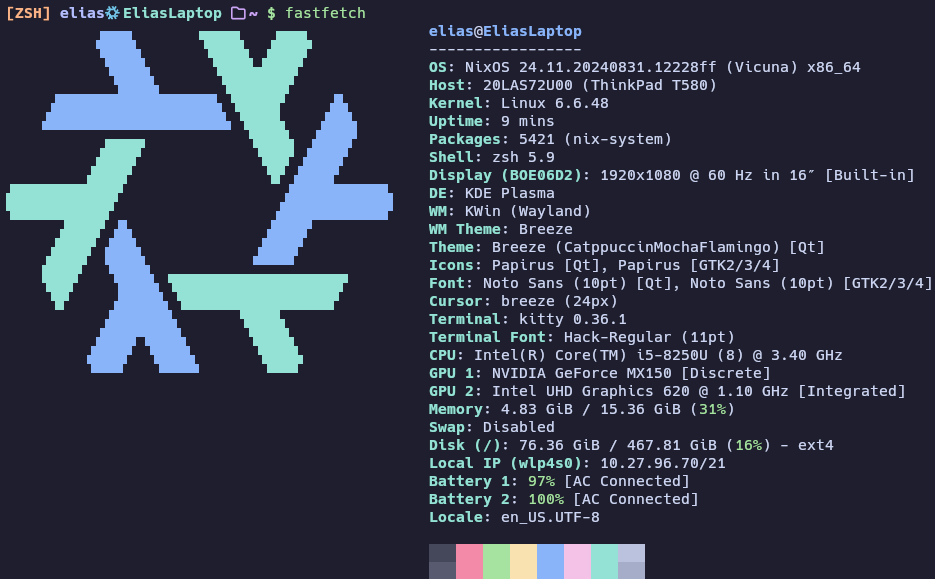
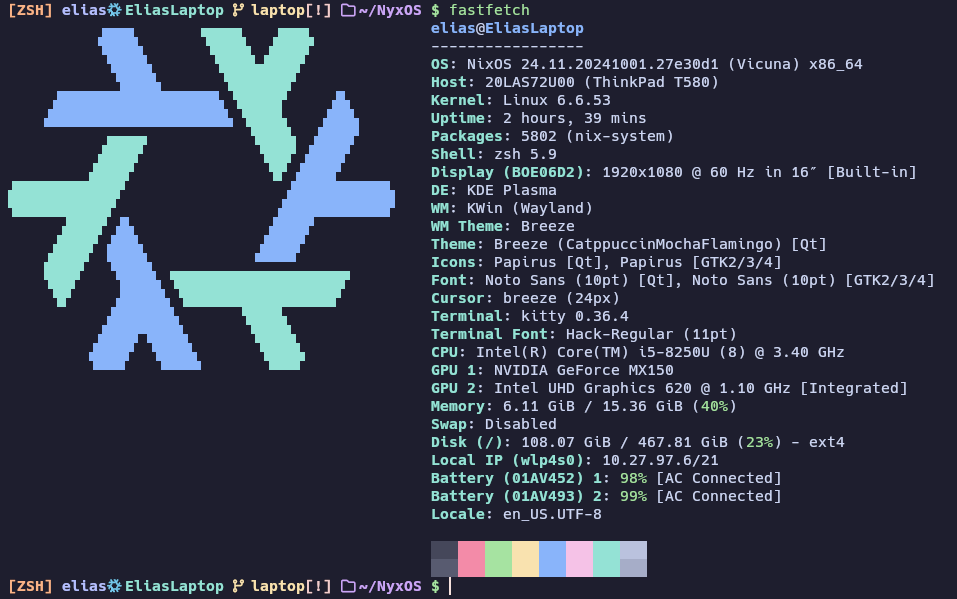
updated readme

Changed region(s): [[0.0, 0.0, 1.0, 1.0], [0.2791, 0.5907, 0.3412, 0.6528]]

diff --git a/README.md b/README.md
@@ -17,10 +17,14 @@ The name is inspired by the Dota hero Nyx
 - [images](images) => Background image and readme images
 - [workspace](NyxOS.code-workspace) => Vscode settings in a base workspace
 
-### Fastfetch
+### Fastfetch(Laptop)
 
 ![fastfetch](images/fastfetch.png)
 
 ### Background Image
 
-![background image](images/nixos-wallpaper-catppuccin-mocha.png)
+![Background image](images/HeightLinesMocha.png)
+
+### Lockscreen Image
+
+![Lockscreen image](images/nixos-wallpaper-catppuccin-mocha.png)
